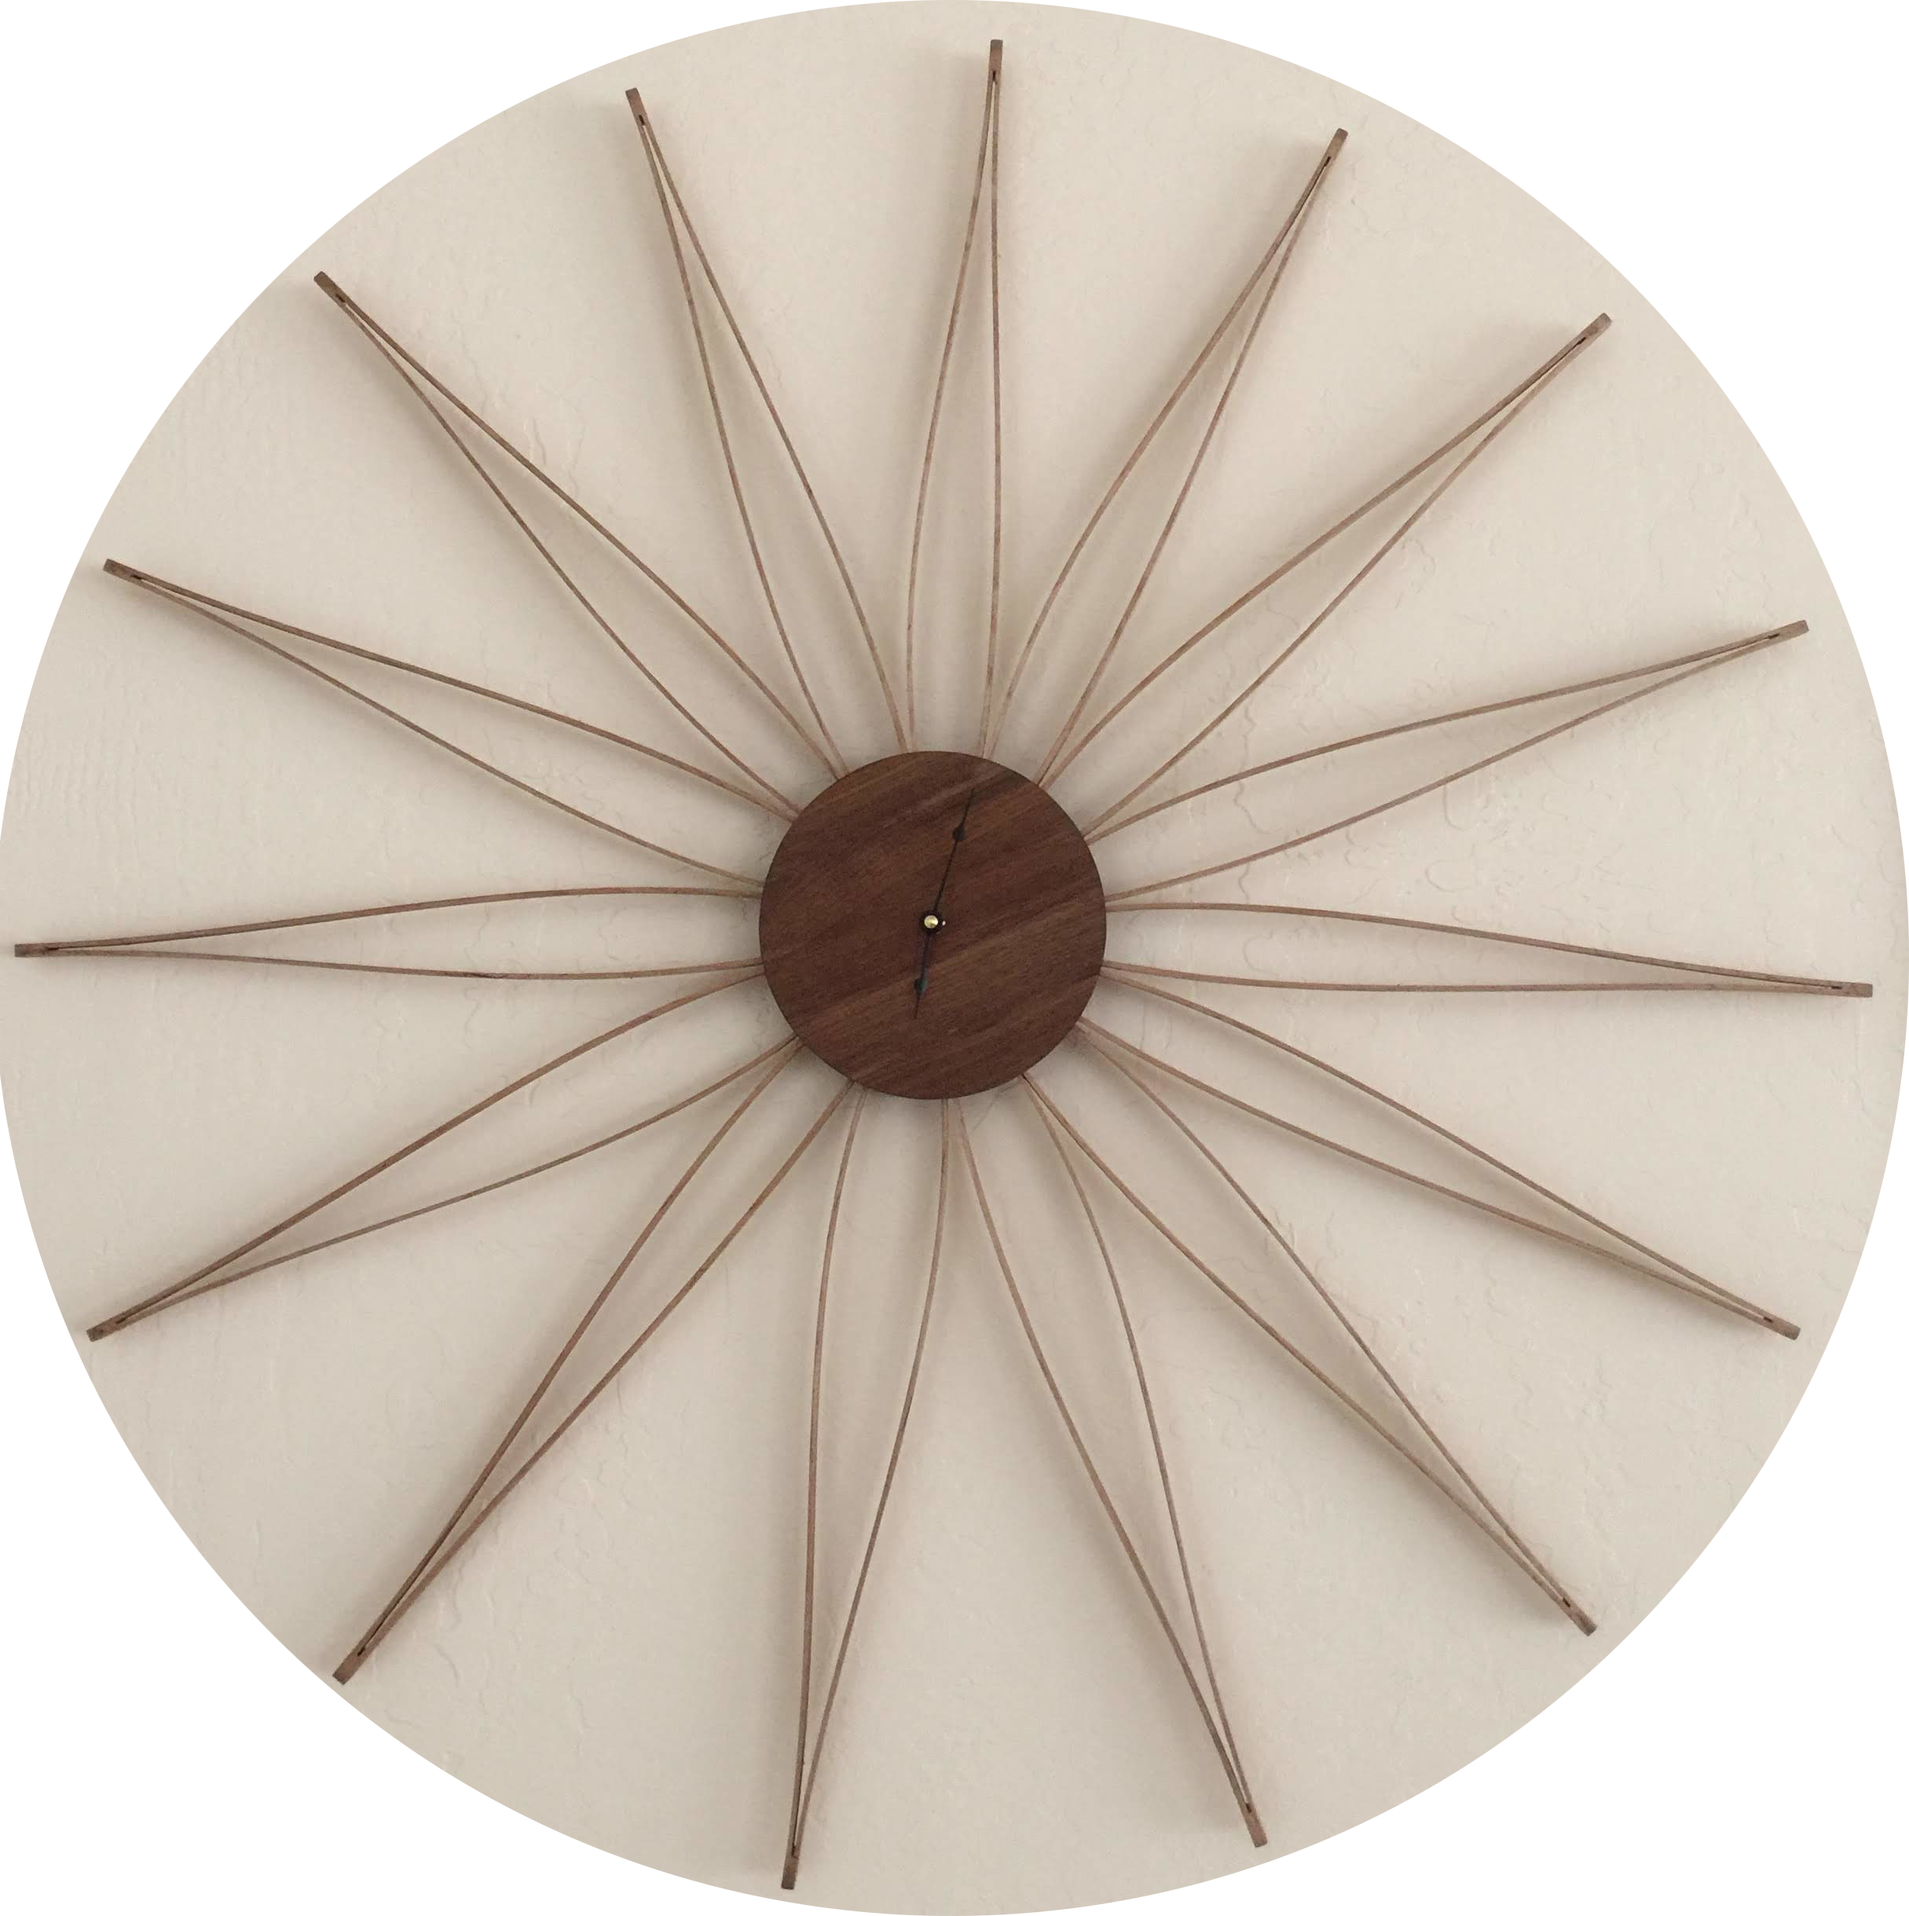
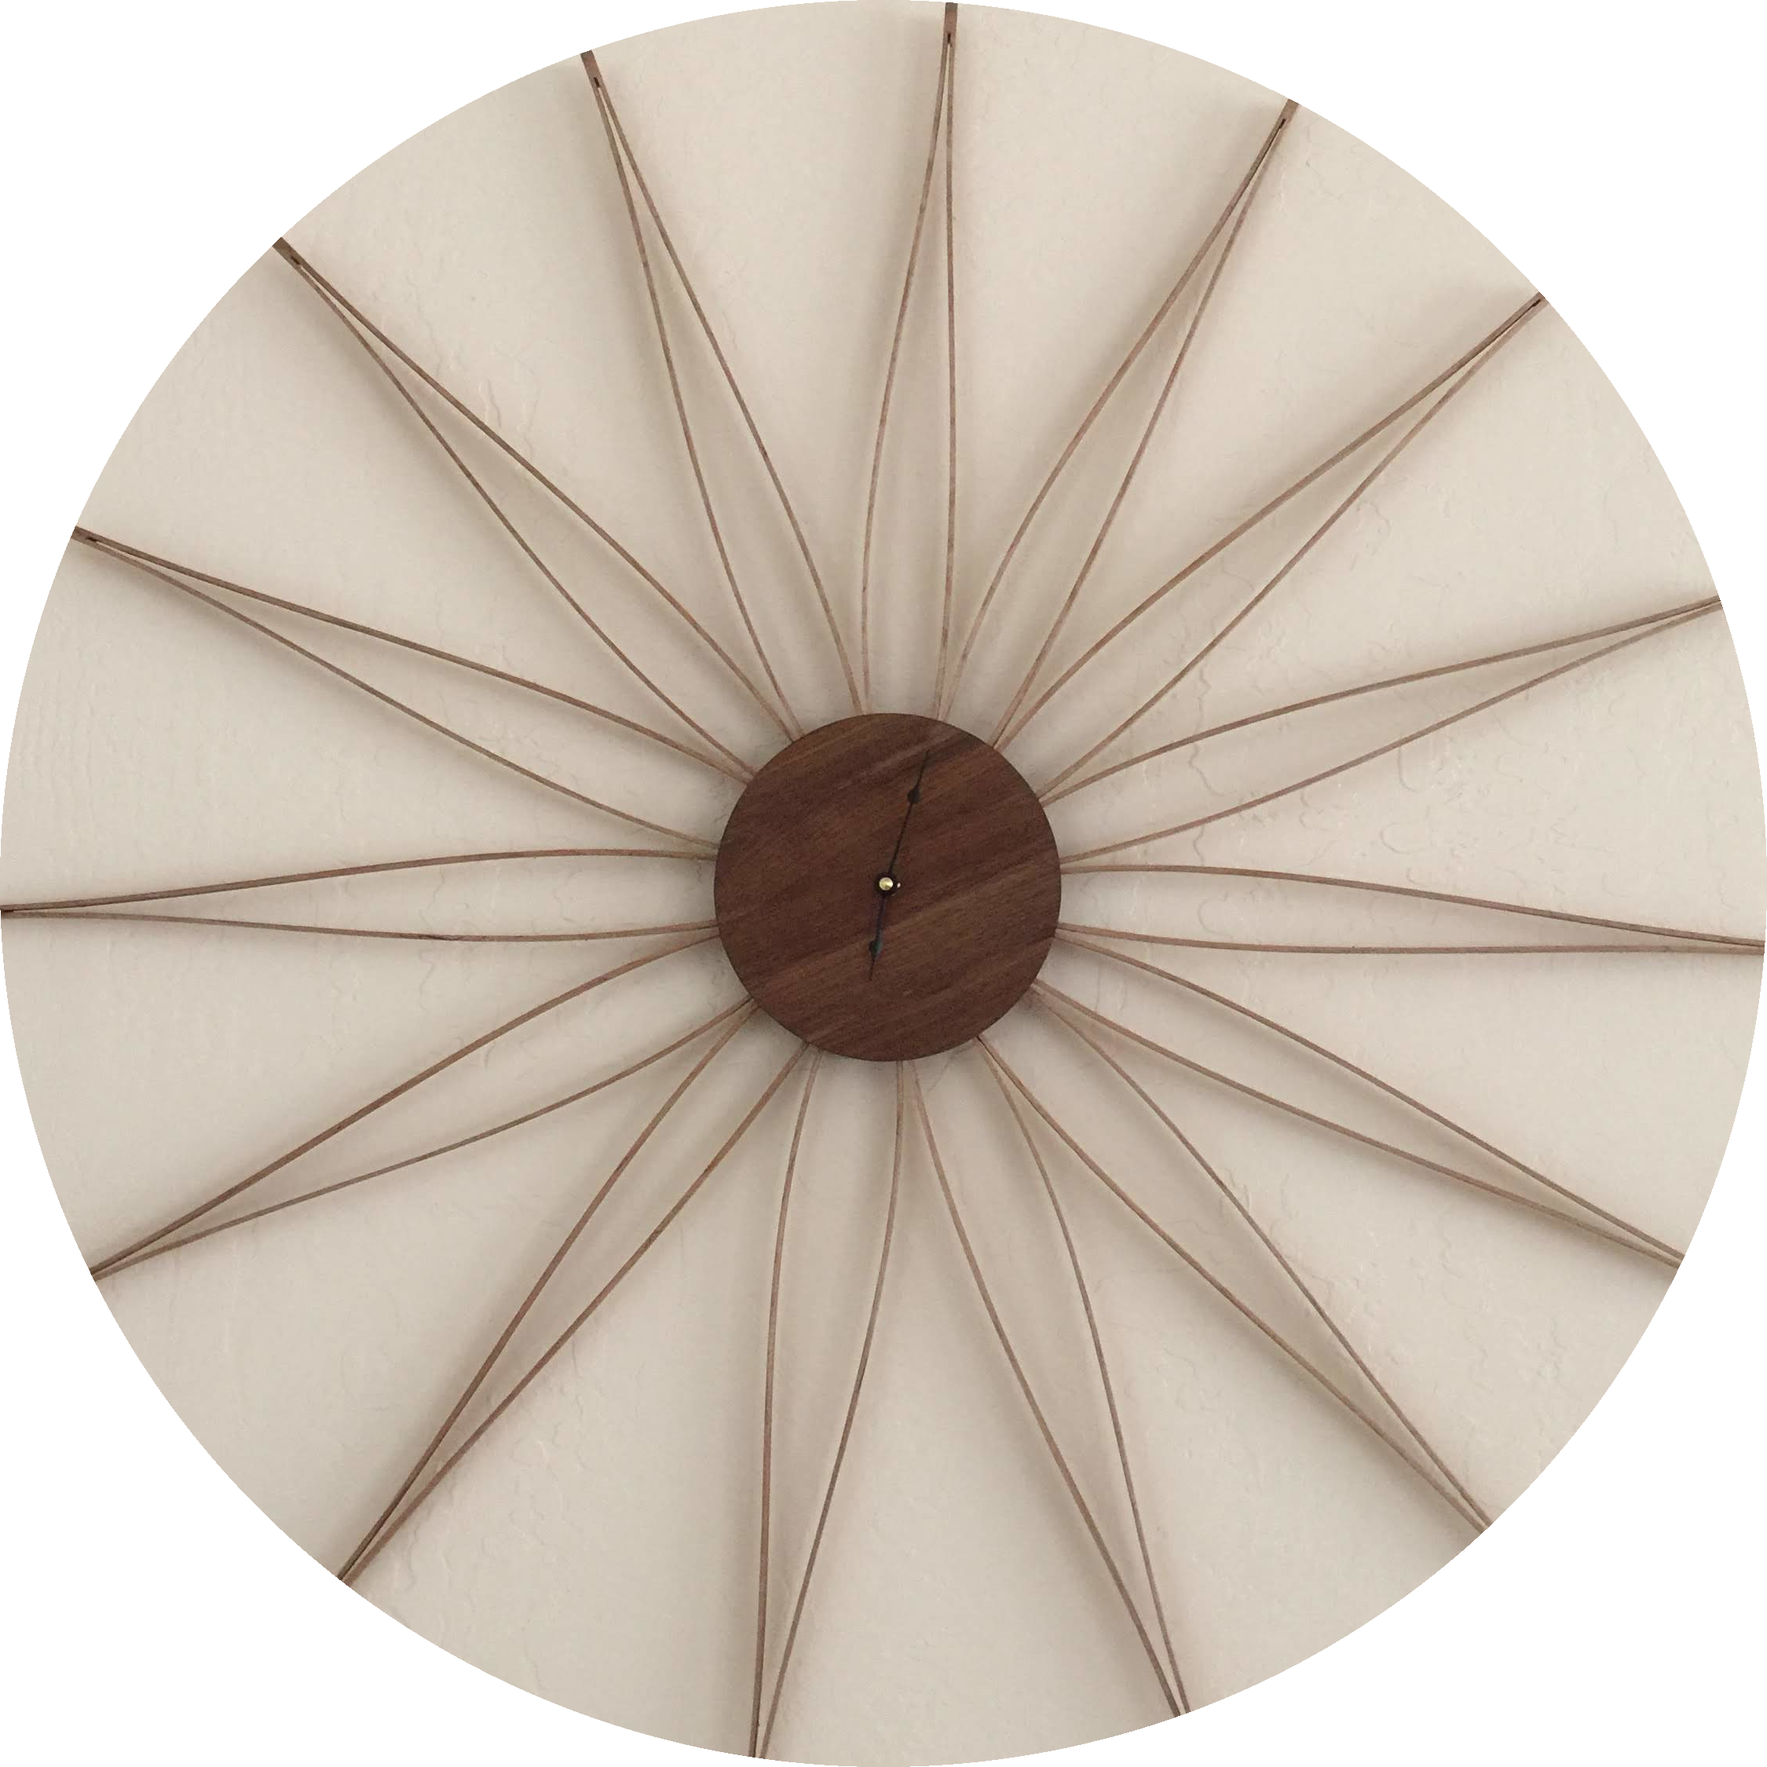
added photos and added slate color

diff --git a/docs/index.html b/docs/index.html
@@ -145,7 +145,7 @@
                             <div class="portfolio-item-caption d-flex align-items-center justify-content-center h-100 w-100">
                                 <div class="portfolio-item-caption-content text-center text-white"><i class="fas fa-plus fa-3x"></i></div>
                             </div>
-                            <img class="img-fluid" src="assets/img/portfolio/hand.png" alt="" />
+                            <img class="img-fluid" src="assets/img/portfolio/surface.png" alt="" />
                         </div>
                     </div>
                     <!-- Portfolio Item 3-->
@@ -154,7 +154,7 @@
                             <div class="portfolio-item-caption d-flex align-items-center justify-content-center h-100 w-100">
                                 <div class="portfolio-item-caption-content text-center text-white"><i class="fas fa-plus fa-3x"></i></div>
                             </div>
-                            <img class="img-fluid" src="assets/img/portfolio/clock.png" alt="" />
+                            <img class="img-fluid" src="assets/img/portfolio/glove.png" alt="" />
                         </div>
                     </div>
                     <!-- Portfolio Item 4-->
@@ -163,7 +163,7 @@
                             <div class="portfolio-item-caption d-flex align-items-center justify-content-center h-100 w-100">
                                 <div class="portfolio-item-caption-content text-center text-white"><i class="fas fa-plus fa-3x"></i></div>
                             </div>
-                            <img class="img-fluid" src="assets/img/portfolio/game.png" alt="" />
+                            <img class="img-fluid" src="assets/img/portfolio/hand.png" alt="" />
                         </div>
                     </div>
                     <!-- Portfolio Item 5-->
@@ -172,7 +172,7 @@
                             <div class="portfolio-item-caption d-flex align-items-center justify-content-center h-100 w-100">
                                 <div class="portfolio-item-caption-content text-center text-white"><i class="fas fa-plus fa-3x"></i></div>
                             </div>
-                            <img class="img-fluid" src="assets/img/portfolio/safe.png" alt="" />
+                            <img class="img-fluid" src="assets/img/portfolio/clock.png" alt="" />
                         </div>
                     </div>
                     <!-- Portfolio Item 6-->

diff --git a/docs/assets/mail/contact_me.php b/docs/assets/mail/contact_me.php
@@ -11,7 +11,7 @@ $phone = strip_tags(htmlspecialchars($_POST['phone']));
 $message = strip_tags(htmlspecialchars($_POST['message']));
 
 // Create the email and send the message
-$to = "yourname@yourdomain.com"; // Add your email address in between the "" replacing yourname@yourdomain.com - This is where the form will send a message to.
+$to = "bloh@usc.edu"; // Add your email address in between the "" replacing yourname@yourdomain.com - This is where the form will send a message to.
 $subject = "Website Contact Form:  $name";
 $body = "You have received a new message from your website contact form.\n\n"."Here are the details:\n\nName: $name\n\nEmail: $email\n\nPhone: $phone\n\nMessage:\n$message";
 $header = "From: noreply@yourdomain.com\n"; // This is the email address the generated message will be from. We recommend using something like noreply@yourdomain.com.
